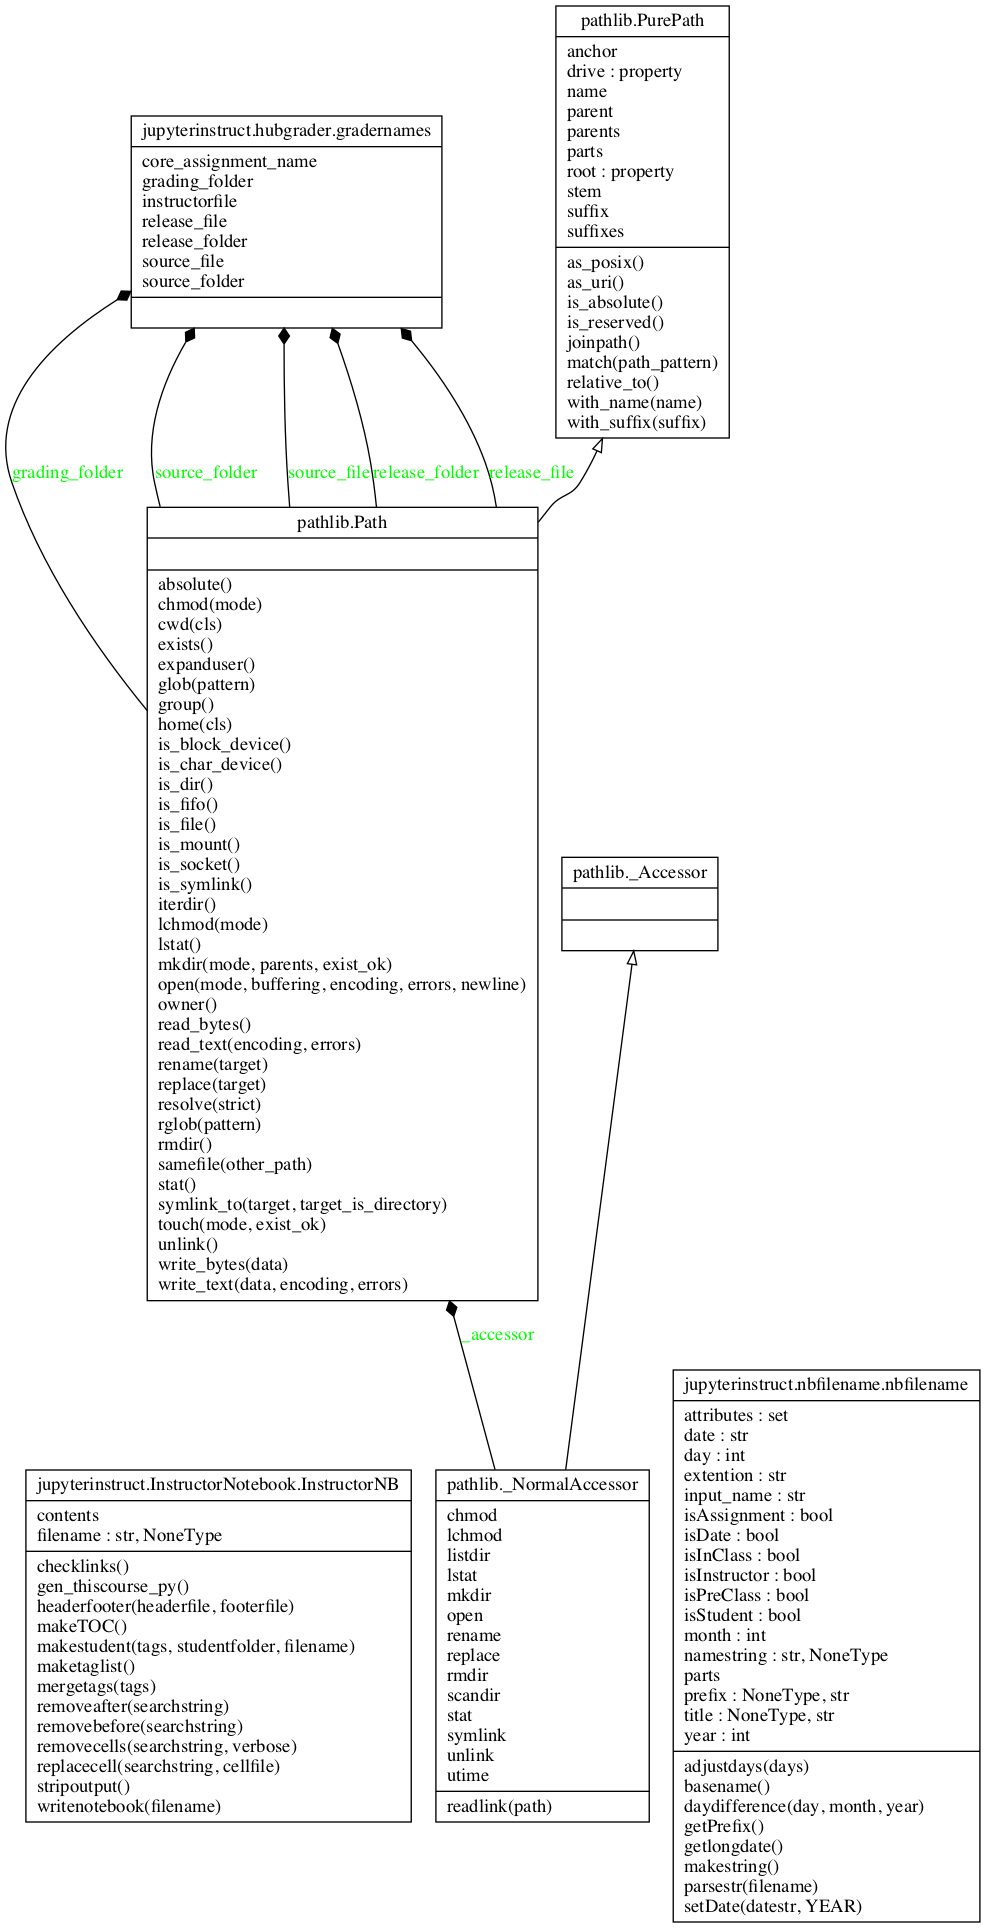
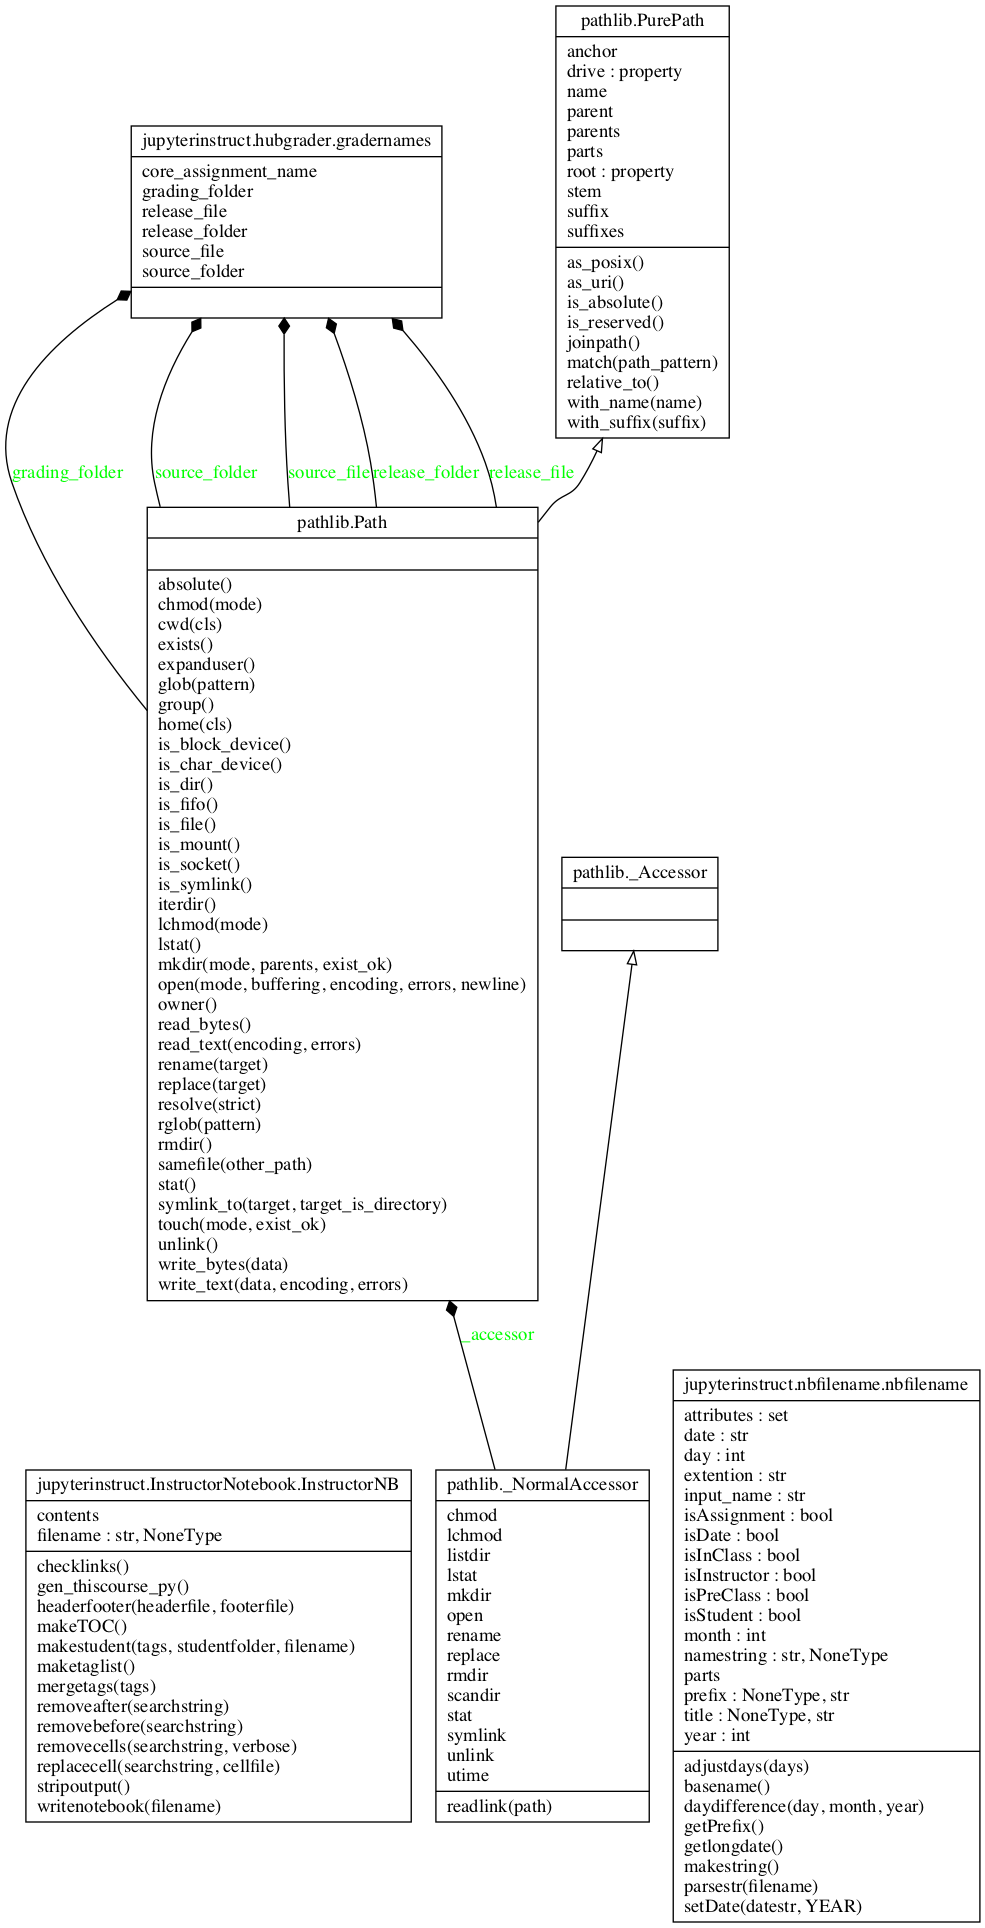
updating documentation for new hubgrader

diff --git a/docs/jupyterinstruct/hubgrader.html b/docs/jupyterinstruct/hubgrader.html
@@ -25,12 +25,23 @@ These tools help put the files in the right place so that instructors …" />
 <section id="section-intro">
 <p>Interface between InstructorNotebooks and a non standard nbgrader installation.
 These tools help put the files in the right place so that instructors can use the nbgrader installation on jupyterhub.erg.mus.edu.</p>
+<h2 id="usage">Usage</h2>
+<p>from jupyterinstruct import hubgrader
+output = hubgrader.importnb(studentfile)</p>
 <details class="source">
 <summary>
 <span>Expand source code</span>
 </summary>
 <pre><code class="python">&#34;&#34;&#34;Interface between InstructorNotebooks and a non standard nbgrader installation.  These tools help put the files in the right place so that instructors can use the nbgrader installation on jupyterhub.erg.mus.edu.
+
+Usage
+-----
+
+from jupyterinstruct import hubgrader 
+output = hubgrader.importnb(studentfile)
+
 &#34;&#34;&#34;
+
 
 
 from jupyterinstruct.nbfilename import nbfilename
@@ -40,10 +51,6 @@ import subprocess
 import shutil
 import time
 import pathlib
-
-##not used. only included to ensure compatibility with command line options
-#import nbgrader
-
 
 class gradernames():
     &#34;&#34;&#34;Create a class of names that follow the nbgrader naming convention:
@@ -87,32 +94,25 @@ class gradernames():
     
     def __init__(self, filename, grading_folder=&#39;./AutoGrader&#39;):
         
-        #nbfile = nbfilename(instructor_notebook)
-        #nbfile.isInstructor = False
-    
-        self.instructorfile = filename
+        nbfile = nbfilename(filename)
+        if nbfile.isInstructor:
+            raise Exception(&#34;Instructor file error: Input student version filename not the instructor version.&#34;) 
         
-        # TODO update with nbfilename logic
-        ind = filename.index(&#34;INST&#34;)-1
-        ext = filename.index(&#34;.ipynb&#34;)
+        corefile = Path(filename)
+
+        if not corefile.exists():
+            raise FileNotFoundError(errno.ENOENT, os.strerror(errno.ENOENT), this_notebook)
+
+        self.core_assignment_name = corefile.stem 
         
-        self.core_assignment_name =  filename[:ind]
-         
-        self.grading_folder = Path(Grading_folder)
+        self.grading_folder = Path(grading_folder)
  
-        self.source_folder = Path(Grading_folder, &#39;/source/&#39;, self.core_assignment_name)
-        self.source_file = Path(self.source_folder, self.core_assignment_name)
-        self.source_file.suffix = &#39;.ipynb&#39;
+        self.source_folder = Path(self.grading_folder, &#39;source&#39;, self.core_assignment_name)
+        self.source_file = Path(self.source_folder, f&#39;{self.core_assignment_name}-STUDENT.ipynb&#39;)
                                 
-        self.release_folder = Path(Grading_folder, &#39;/release/&#39;, self.core_assignment_name)
-        self.release_file = Path(self.release_folder, self.core_assignment_name)
-        self.release_file.suffix = &#39;.ipynb&#39;
+        self.release_folder = Path(self.grading_folder, &#39;release&#39;, self.core_assignment_name)
+        self.release_file = Path(self.release_folder, f&#39;{self.core_assignment_name}-STUDENT.ipynb&#39;)
                                 
-        #Make folder paths
-        self.grading_folder.mkdir(parents=True, exist_ok=True)
-        self.source_folder.mkdir(parents=True, exist_ok=True)
-        self.release_folder.mkdir(parents=True, exist_ok=True)
-        
         #Give OS time to make folders (Helps bugs on some systems)
         time.sleep(2)
     
@@ -122,17 +122,17 @@ def importnb(this_notebook):
     The file should be marked as an assignment by nbgrader.&#34;&#34;&#34;
     
     print(f&#34;IMPORTING {this_notebook}&#34;)
-          
+    
+    if not Path(this_notebook).exists():
+        raise FileNotFoundError(errno.ENOENT, os.strerror(errno.ENOENT), this_notebook)
+
     gname = gradernames(this_notebook)
     
-    # Clean out Autograder folders
-    if gname.source_folder.exists():
-        print(f&#39;REMOVING {gname.source_folder}&#39;)
-        shutil.rmtree(gname.source_folder)
-    if gname.release_folder.exists():
-        print(f&#39;REMOVING {gname.release_folder}&#39;)
-        shutil.rmtree(gname.release_folder)
-        
+    #Make folder paths
+    gname.grading_folder.mkdir(parents=True, exist_ok=True)
+    gname.source_folder.mkdir(parents=True, exist_ok=True)
+    gname.release_folder.mkdir(parents=True, exist_ok=True)
+
     shutil.move(this_notebook, gname.source_file)
 
     command = f&#39;cd {gname.grading_folder}; nbgrader db assignment add {gname.core_assignment_name}&#39;
@@ -140,7 +140,7 @@ def importnb(this_notebook):
     returned_output = subprocess.check_output(command, shell=True)
     print(f&#34;Output: {returned_output.decode(&#39;utf-8&#39;)}&#34;)
 
-    command = f&#39;cd {gname.grading_folder}; nbgrader generate_assignment {gname.core_assignment_name}&#39;
+    command = f&#39;cd {gname.grading_folder}; nbgrader generate_assignment --force {gname.core_assignment_name}&#39;
     print(command)
     returned_output = subprocess.check_output(command, shell=True)
     print(f&#34;Output: {returned_output.decode(&#39;utf-8&#39;)}&#34;)
@@ -231,17 +231,17 @@ The file should be marked as an assignment by nbgrader.</p></div>
     The file should be marked as an assignment by nbgrader.&#34;&#34;&#34;
     
     print(f&#34;IMPORTING {this_notebook}&#34;)
-          
+    
+    if not Path(this_notebook).exists():
+        raise FileNotFoundError(errno.ENOENT, os.strerror(errno.ENOENT), this_notebook)
+
     gname = gradernames(this_notebook)
     
-    # Clean out Autograder folders
-    if gname.source_folder.exists():
-        print(f&#39;REMOVING {gname.source_folder}&#39;)
-        shutil.rmtree(gname.source_folder)
-    if gname.release_folder.exists():
-        print(f&#39;REMOVING {gname.release_folder}&#39;)
-        shutil.rmtree(gname.release_folder)
-        
+    #Make folder paths
+    gname.grading_folder.mkdir(parents=True, exist_ok=True)
+    gname.source_folder.mkdir(parents=True, exist_ok=True)
+    gname.release_folder.mkdir(parents=True, exist_ok=True)
+
     shutil.move(this_notebook, gname.source_file)
 
     command = f&#39;cd {gname.grading_folder}; nbgrader db assignment add {gname.core_assignment_name}&#39;
@@ -249,7 +249,7 @@ The file should be marked as an assignment by nbgrader.</p></div>
     returned_output = subprocess.check_output(command, shell=True)
     print(f&#34;Output: {returned_output.decode(&#39;utf-8&#39;)}&#34;)
 
-    command = f&#39;cd {gname.grading_folder}; nbgrader generate_assignment {gname.core_assignment_name}&#39;
+    command = f&#39;cd {gname.grading_folder}; nbgrader generate_assignment --force {gname.core_assignment_name}&#39;
     print(command)
     returned_output = subprocess.check_output(command, shell=True)
     print(f&#34;Output: {returned_output.decode(&#39;utf-8&#39;)}&#34;)
@@ -403,32 +403,25 @@ The file should be marked as an assignment by nbgrader.</p></div>
     
     def __init__(self, filename, grading_folder=&#39;./AutoGrader&#39;):
         
-        #nbfile = nbfilename(instructor_notebook)
-        #nbfile.isInstructor = False
-    
-        self.instructorfile = filename
+        nbfile = nbfilename(filename)
+        if nbfile.isInstructor:
+            raise Exception(&#34;Instructor file error: Input student version filename not the instructor version.&#34;) 
         
-        # TODO update with nbfilename logic
-        ind = filename.index(&#34;INST&#34;)-1
-        ext = filename.index(&#34;.ipynb&#34;)
+        corefile = Path(filename)
+
+        if not corefile.exists():
+            raise FileNotFoundError(errno.ENOENT, os.strerror(errno.ENOENT), this_notebook)
+
+        self.core_assignment_name = corefile.stem 
         
-        self.core_assignment_name =  filename[:ind]
-         
-        self.grading_folder = Path(Grading_folder)
+        self.grading_folder = Path(grading_folder)
  
-        self.source_folder = Path(Grading_folder, &#39;/source/&#39;, self.core_assignment_name)
-        self.source_file = Path(self.source_folder, self.core_assignment_name)
-        self.source_file.suffix = &#39;.ipynb&#39;
+        self.source_folder = Path(self.grading_folder, &#39;source&#39;, self.core_assignment_name)
+        self.source_file = Path(self.source_folder, f&#39;{self.core_assignment_name}-STUDENT.ipynb&#39;)
                                 
-        self.release_folder = Path(Grading_folder, &#39;/release/&#39;, self.core_assignment_name)
-        self.release_file = Path(self.release_folder, self.core_assignment_name)
-        self.release_file.suffix = &#39;.ipynb&#39;
+        self.release_folder = Path(self.grading_folder, &#39;release&#39;, self.core_assignment_name)
+        self.release_file = Path(self.release_folder, f&#39;{self.core_assignment_name}-STUDENT.ipynb&#39;)
                                 
-        #Make folder paths
-        self.grading_folder.mkdir(parents=True, exist_ok=True)
-        self.source_folder.mkdir(parents=True, exist_ok=True)
-        self.release_folder.mkdir(parents=True, exist_ok=True)
-        
         #Give OS time to make folders (Helps bugs on some systems)
         time.sleep(2)</code></pre>
 </details>
@@ -439,7 +432,9 @@ The file should be marked as an assignment by nbgrader.</p></div>
 <nav id="sidebar">
 <h1>Index</h1>
 <div class="toc">
-<ul></ul>
+<ul>
+<li><a href="#usage">Usage</a></li>
+</ul>
 </div>
 <ul id="index">
 <li><h3>Super-module</h3>

diff --git a/docs/0000-Instructor_instructions.html b/docs/0000-Instructor_instructions.html
@@ -14332,9 +14332,9 @@ a.anchor-link {
 
 
 
-<div id="dae29635-52d2-47c3-afed-38baba88c428" class="jp-RenderedJavaScript jp-OutputArea-output " data-mime-type="application/javascript">
+<div id="85b6554c-bca4-4819-aad1-79a92f1a116a" class="jp-RenderedJavaScript jp-OutputArea-output " data-mime-type="application/javascript">
 <script type="text/javascript">
-var element = document.getElementById('dae29635-52d2-47c3-afed-38baba88c428');
+var element = document.getElementById('85b6554c-bca4-4819-aad1-79a92f1a116a');
 Jupyter.notebook.kernel.execute("this_notebook = " + "'"+Jupyter.notebook.notebook_name+"'");
 </script>
 </div>
